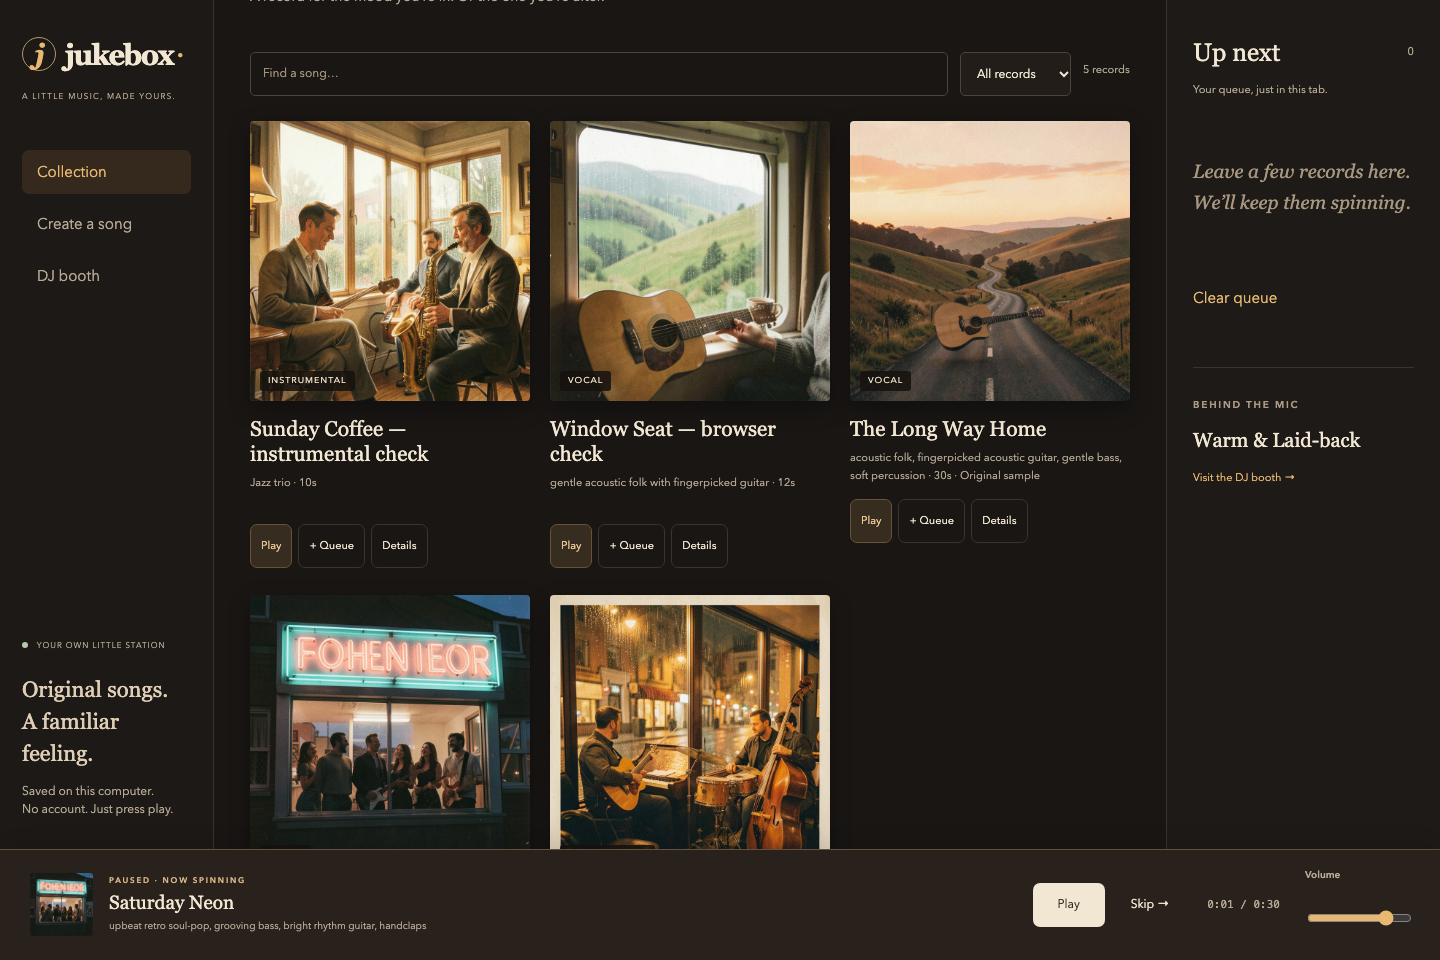
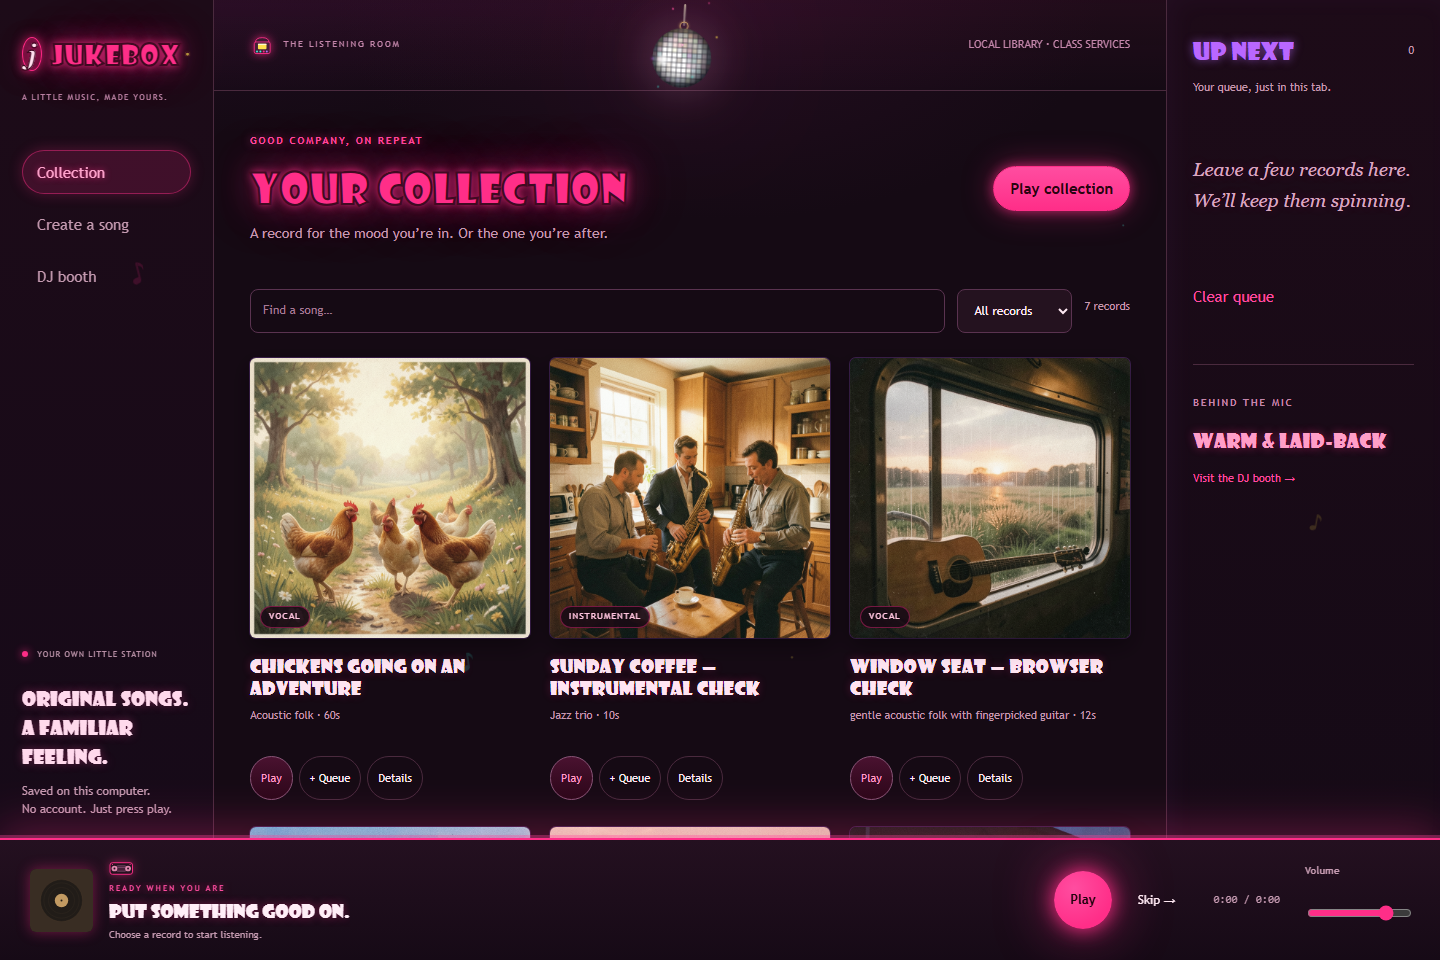
docs: refresh remaining screenshots (generating, after-generation, DJ playing, voice reference, error, mobile) to the disco theme

diff --git a/README.md b/README.md
@@ -17,7 +17,7 @@ Not running yet? Start it first with the steps below ([Start here](#start-here))
 - **10/13/26 — Disco neon theme**: 70s disco look — glowing neon bubble-letter signs, hot pink / cyan / yellow neon, midnight-purple walls, and a mirror ball in the header (a hand-built SVG with 144 individually lit mirror tiles, a sweeping glint, and colored light dots orbiting it). Pure CSS + inline SVG — still zero remote fonts or downloads.
 - **10/13/26 — Cute deco graphics**: a glowing jukebox icon in the top bar, a cassette tape in the player, and three music notes gently bobbing in the background. All hand-drawn inline SVG + CSS — no downloads, no JavaScript changes.
 - **10/13/26 — Quick open link**: click **[Open the Jukebox](http://127.0.0.1:8765)** at the top of this README to open the app in your browser whenever it's running.
-- **10/13/26 — Fresh screenshots, first live Windows run**: the README screenshots now show the disco theme. The app was also exercised end-to-end on Windows with the live class services — Qwen lyrics, an ACE-Step song and a FLUX cover were all generated successfully from a local Windows launch.
+- **10/13/26 — Fresh screenshots, first live Windows run**: every README and test-report screenshot now shows the disco theme. The app was also exercised end-to-end on Windows with the live class services — Qwen lyrics, an ACE-Step song and a FLUX cover were all generated successfully from a local Windows launch.
 
 ## Start here
 
